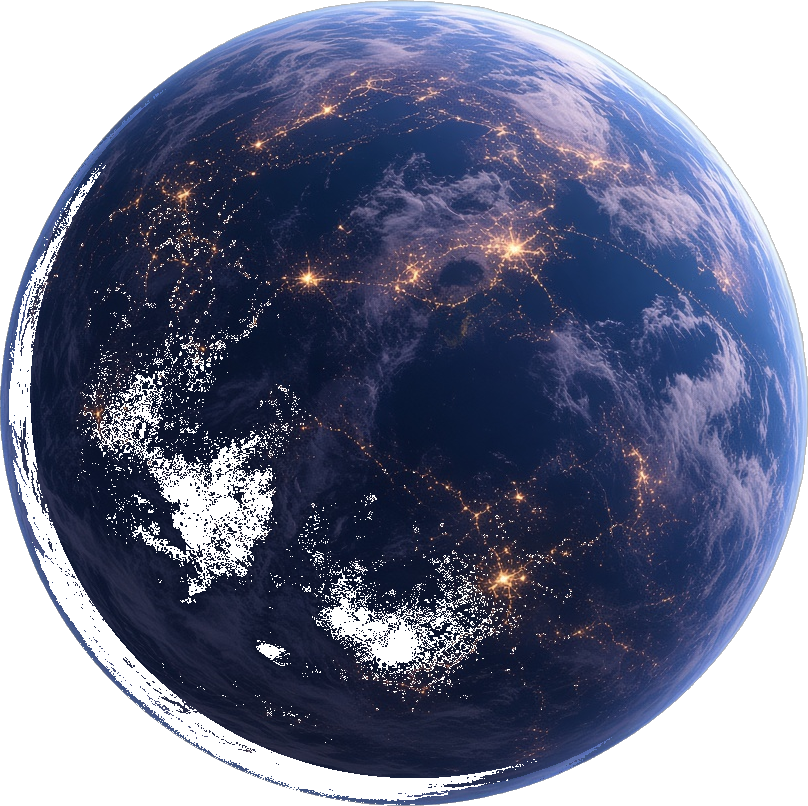
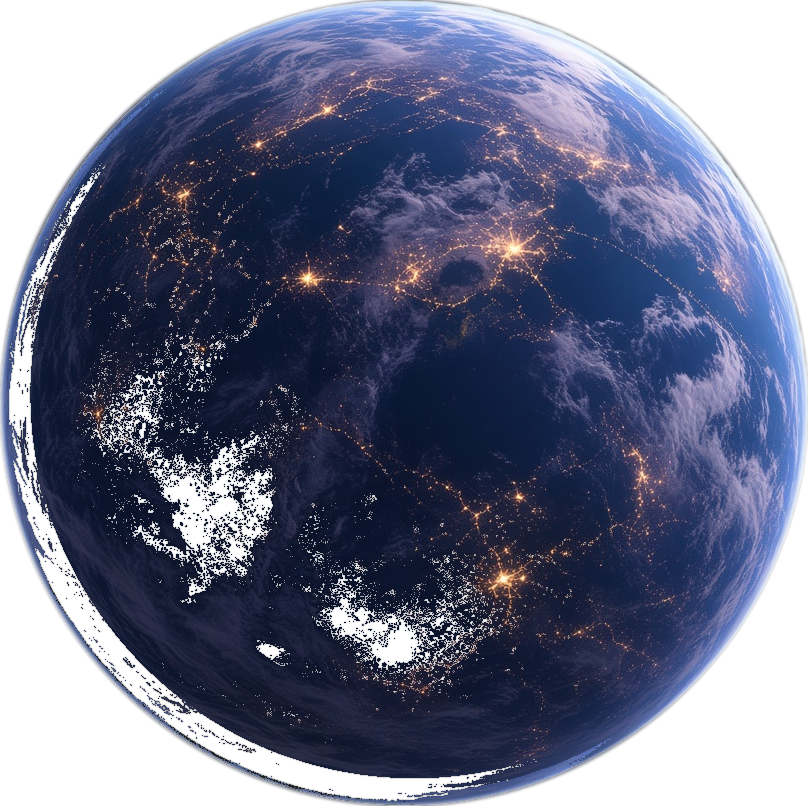
fix: remove jagged black voids under Earth
Soften Earth sprite alphaTest/depthWrite, rebuild a smooth circular
limb on earth.png, and nudge a nearby asteroid off the silhouette.

diff --git a/src/components/cosmic/LoungeObjects.tsx b/src/components/cosmic/LoungeObjects.tsx
@@ -40,7 +40,7 @@ export const ASTEROID_SPOTS: [number, number, number, number][] = [
   [-14, -3, -28, 1.1],
   [28, 10, 16, 0.8],
   [-22, 12, 4, 0.85],
-  [10, -5, -10, 1.15],
+  [16, -6.5, -2, 1.15],
   [-4, 2, 24, 0.9],
 ];
 
@@ -134,6 +134,7 @@ function SolarPlanetSprite({
   map: THREE.Texture;
 }) {
   const ringed = Boolean(planet.ringed);
+  const isEarth = planet.id === "earth";
   // Planet sprite only — no aura / circular backplate discs
   return (
     <group position={[planet.pos.x, planet.pos.y, planet.pos.z]}>
@@ -144,9 +145,10 @@ function SolarPlanetSprite({
         scaleY={ringed ? 0.52 : 1}
         roll={ringed ? RING_UPRIGHT_ROLL : 0}
         color={planet.color}
-        // Hard cut — discard soft/dark PNG limb fringe against the sun
-        alphaTest={0.45}
-        depthWrite
+        // Earth needs a soft limb — high alphaTest ate the night edge into jagged voids
+        alphaTest={isEarth ? 0.08 : 0.45}
+        depthWrite={!isEarth}
+        renderOrder={isEarth ? 3 : 2}
       />
     </group>
   );
@@ -187,6 +189,13 @@ export function LoungeObjects() {
     t.colorSpace = THREE.SRGBColorSpace;
     t.wrapS = t.wrapT = THREE.ClampToEdgeWrapping;
   }
+  // Earth: smoother limb mips — reduces black stair-steps on the night rim
+  earth.generateMipmaps = true;
+  earth.minFilter = THREE.LinearMipmapLinearFilter;
+  earth.magFilter = THREE.LinearFilter;
+  earth.anisotropy = 4;
+  earth.premultiplyAlpha = false;
+  earth.needsUpdate = true;
 
   const moonGroup = useRef<THREE.Group>(null);
   const planets = useMemo(() => getSolarPlanets(), []);
